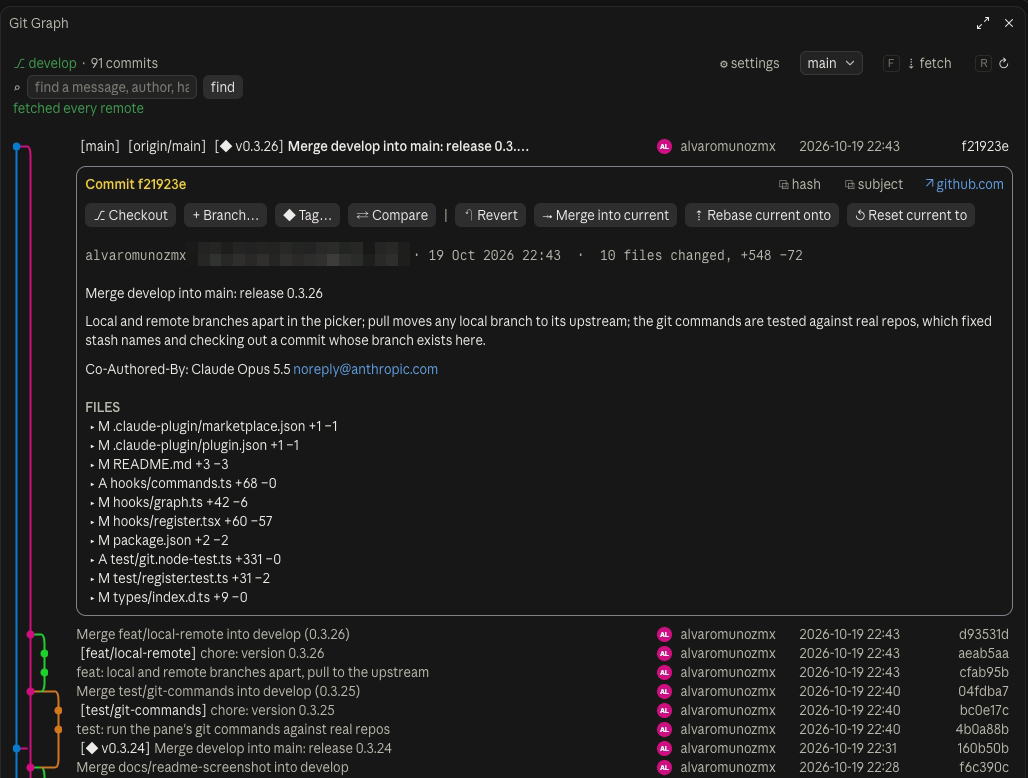
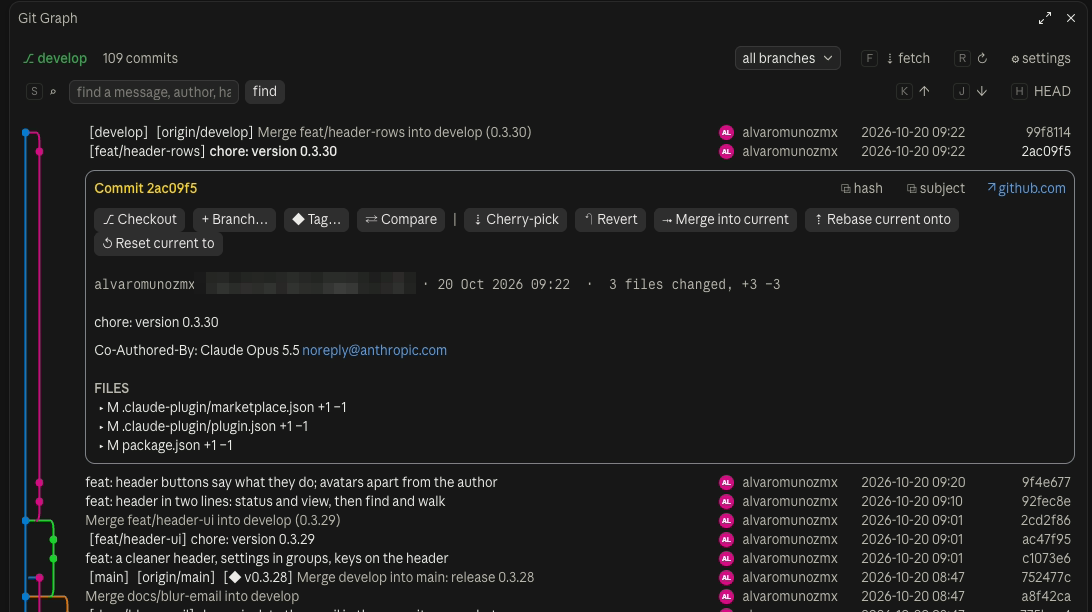
docs: README screenshots of the new header, a branch and the settings
The overview and the commit opened show the two-line header; a branch opened from its badge and the settings panel join them. The email in the commit's author line is pixelated.

Changed region(s): [[0.0, 0.0, 0.9961, 1.0], [0.6848, 0.0621, 0.8405, 0.1242], [0.3424, 0.3415, 0.4047, 0.3725]]

diff --git a/README.md b/README.md
@@ -69,6 +69,14 @@ A commit, opened: its actions in groups, the author and date, its lines added an
 
 <img alt="A commit opened in the Git Graph pane: its actions, author, date, message and changed files with lines added and deleted" src=".github/commit-detail.png" />
 
+A branch, opened from its badge: how it stands against its upstream, a link to open a pull request, and its actions.
+
+<img alt="The current branch opened in the Git Graph pane: in step with its upstream, a pull request link, and push, pull and rename" src=".github/branch.png" />
+
+The settings, open under the header: a line per group.
+
+<img alt="The settings panel of the Git Graph pane: lanes, columns and what is dimmed" src=".github/settings.png" />
+
 Actions that change the repo need a second click to confirm and wait for Claude to finish its turn. They refuse to run with uncommitted changes, except a soft or mixed reset. A cherry-pick, revert, merge or rebase that stops on a conflict is undone, leaving everything as it was.
 
 ## Settings
